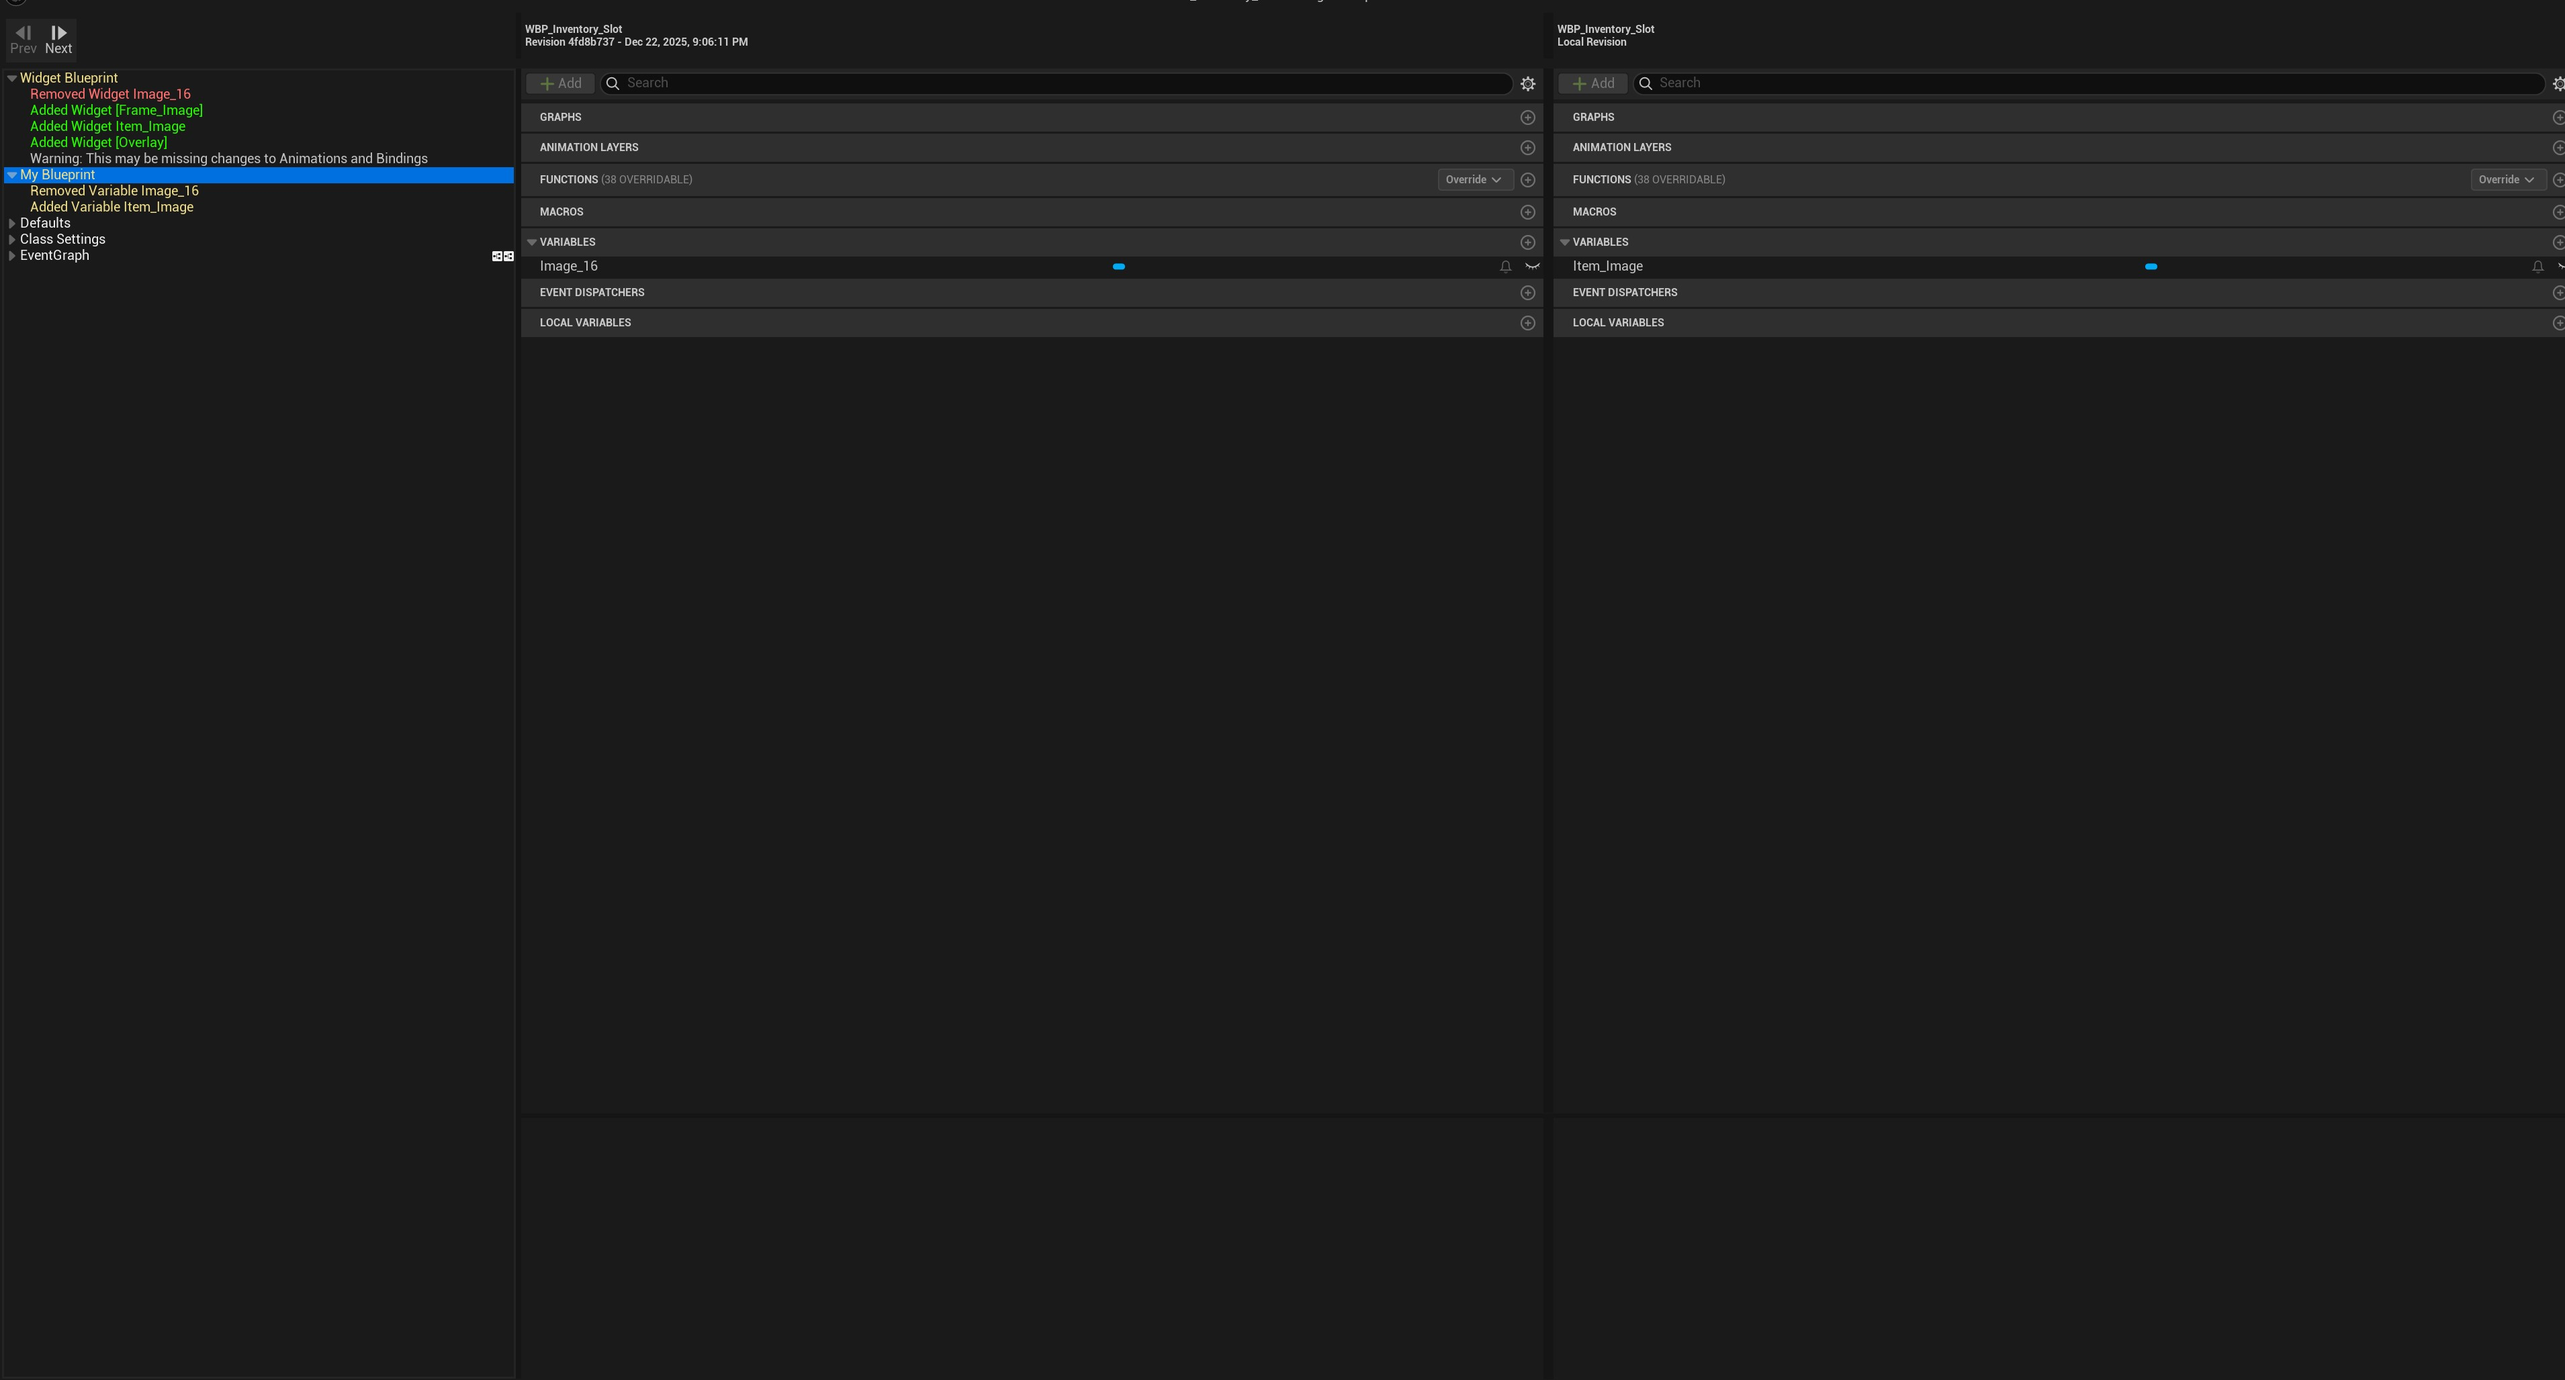
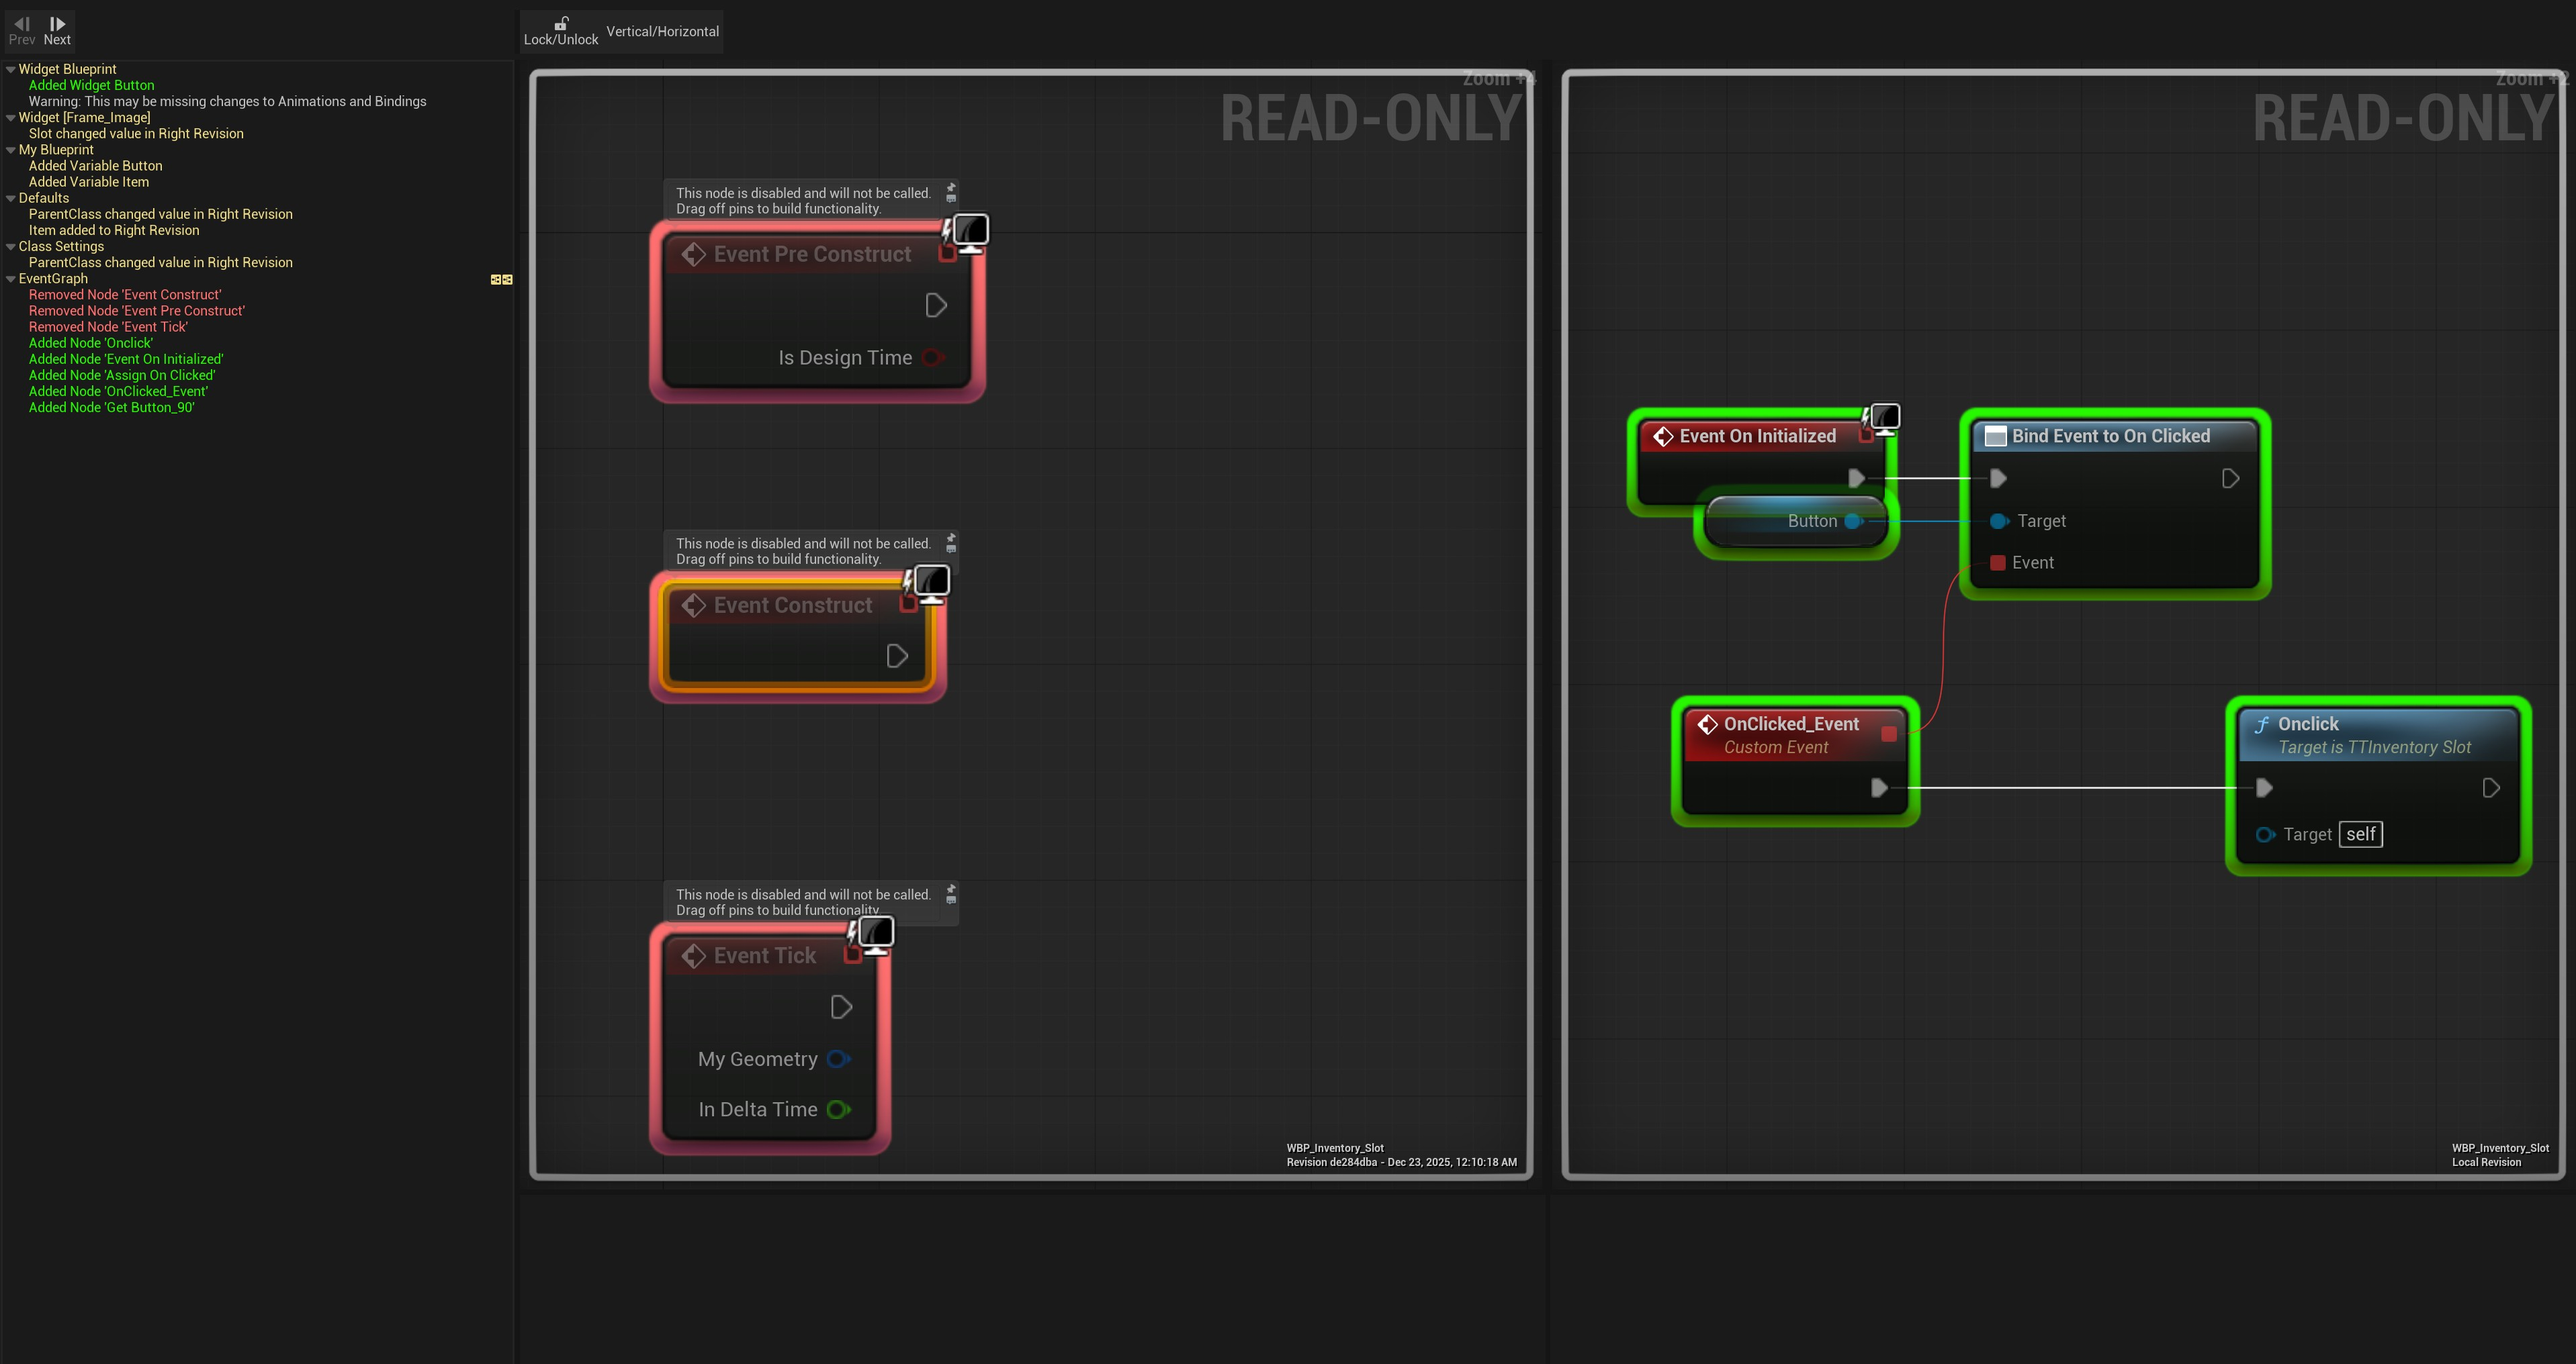
[Add] Inventory Slot - Clicking event

Changed region(s): [[0.0, 0.0, 1.0, 0.8681], [0.8413, 0.4961, 0.9971, 0.6511], [0.2493, 0.372, 0.3739, 0.5271]]

diff --git a/Source/The_Turnatable/Public/UI/TTInventorySlot.h b/Source/The_Turnatable/Public/UI/TTInventorySlot.h
@@ -1,0 +1,24 @@
+// Fill out your copyright notice in the Description page of Project Settings.
+
+#pragma once
+
+#include "CoreMinimal.h"
+#include "Blueprint/UserWidget.h"
+#include "TTInventorySlot.generated.h"
+
+class UTTItem;
+/**
+ * 
+ */
+UCLASS()
+class THE_TURNATABLE_API UTTInventorySlot : public UUserWidget
+{
+	GENERATED_BODY()
+public:
+	UFUNCTION(BlueprintCallable)
+	void Onclick();
+	
+protected:
+	UPROPERTY(EditAnywhere, BlueprintReadWrite, Category="Components")
+	UTTItem* Item;
+};

diff --git a/Source/The_Turnatable/Private/UI/TTInventorySlot.cpp b/Source/The_Turnatable/Private/UI/TTInventorySlot.cpp
@@ -1,0 +1,9 @@
+// Fill out your copyright notice in the Description page of Project Settings.
+
+
+#include "UI/TTInventorySlot.h"
+
+void UTTInventorySlot::Onclick()
+{
+	UE_LOG(LogTemp, Warning, TEXT("Clicked"));
+}
